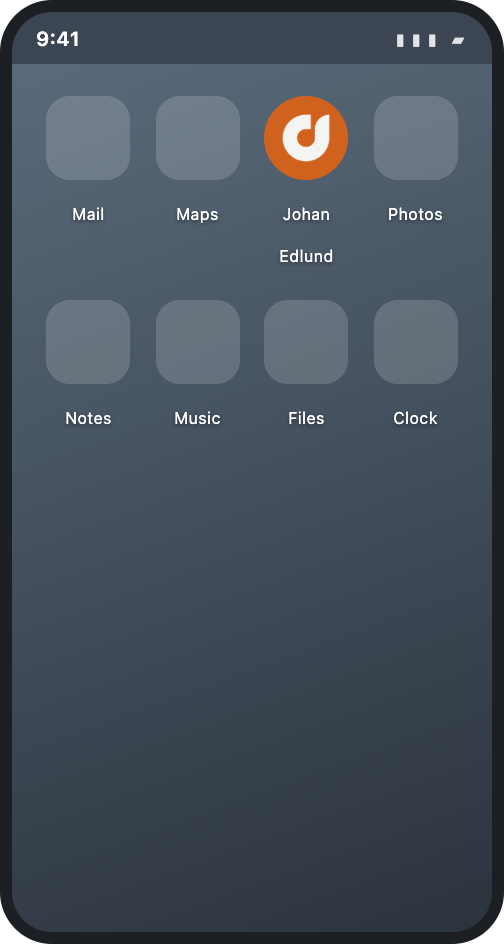
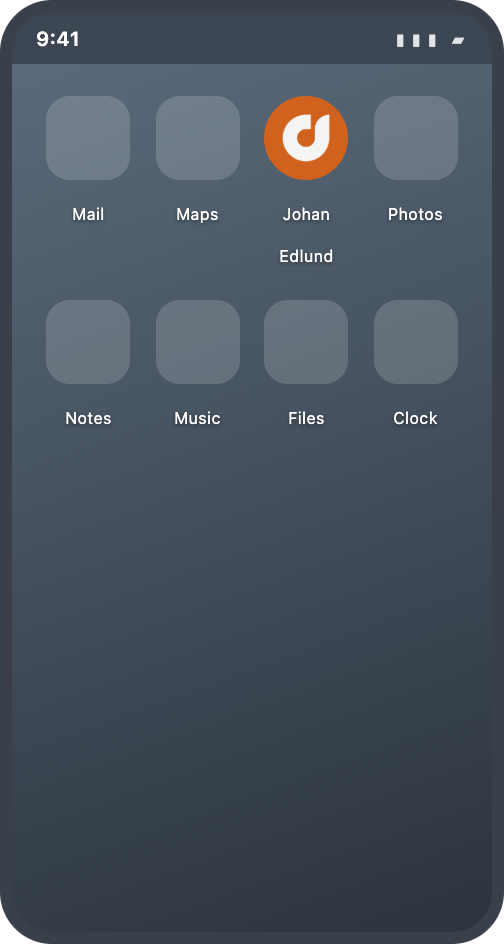
Lighter bezel on the device frames, and no hairline around them
The frames are transparent-cornered PNGs, so prose's image border drew a rectangle around each rounded device. data-wiki-devices opts them out.

Changed region(s): [[0.0, 0.0, 1.0, 1.0]]

diff --git a/src/assets/css/local/wiki.css b/src/assets/css/local/wiki.css
@@ -26,3 +26,12 @@ _log.md is a run of dated records whose h2 is the whole record — "[2026-08-29]
   /* ⚠ Not var(--stroke): that resolves to --color-bg-accent, a surface token that is white in the light theme and vanishes as a line on the page. --color-bg-accent-2 is what the site's own <hr> uses. */
   border-block-start: var(--border-thickness) solid var(--color-bg-accent-2);
 }
+
+/*
+DEVICE FRAMES
+Screenshots whose subject is a rounded, transparent-cornered device — prose's image hairline and radius draw a rectangle around one. Opt out per figure group with data-wiki-devices.
+*/
+[data-wiki-devices] img {
+  border: none;
+  border-radius: 0;
+}
